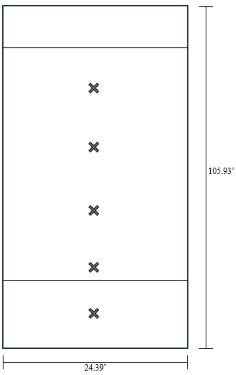
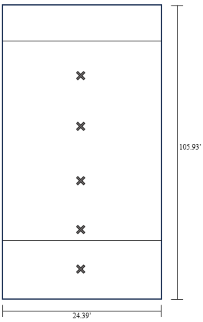
diagram and image adjustments, gain reduction adjustment for KY, IN, NM churches

diff --git a/Javascript/AudioEngine.js b/Javascript/AudioEngine.js
@@ -60,16 +60,31 @@ function setConvolutionMix(mix) {
 }
 
 /**
+ * Pre-convolution gain reduction (in dB) applied to the IRs, per room and
+ * receiver position. Receivers left out of a room's entry, and rooms left out
+ * entirely, are played back unchanged.
+ */
+const IR_GAIN_REDUCTION_DB = {
+    FirstPresbyterianChurchKY:     { R2: 1.5, R5: 1.5, R8: 1.5, R3: 3, R6: 3, R9: 3 },
+    CaneRidgeMeetingHouse:         { R7: 1.5, R8: 1.5, R9: 1.5, R5: 3, R6: 3},
+    BasilicaStFrancis:             { R4: 1, R5: 1, R2: 1.5, R6: 2.5, R7: 2.5, R3: 3, R8: 4.5 },
+    MonasteryImmaculateConception: { R2: 1.5, R5: 1.5, R6: 1.5, R3: 3, R4: 4.5 },
+    StAugustineIsleta:             { R2: 1.5, R3: 3, R4: 4.5, R5: 6 },
+    OurLadyOfGuadalupe:            { R2: 1.5, R3: 3, R4: 4.5 }
+};
+
+/**
  * Determines the pre-convolution gain reduction (in dB) to apply to the IRs
  * for the current room/receiver position combination.
- * First Presbyterian Church, KY: R2/R5/R8 get -1.5dB, R3/R6/R9 get -3dB, R1/R4/R7 are unchanged.
  */
 function getIrGainReductionDb() {
-    if (room !== "FirstPresbyterianChurchKY") return 0;
+    const roomReductions = IR_GAIN_REDUCTION_DB[room];
+    if (!roomReductions) return 0;
 
-    if (/^rpR(2|5|8)_/.test(rcvpos)) return 1.5;
-    if (/^rpR(3|6|9)_/.test(rcvpos)) return 3;
-    return 0;
+    const receiver = /^rp(R\d+)_/.exec(rcvpos);
+    if (!receiver) return 0;
+
+    return roomReductions[receiver[1]] || 0;
 }
 
 /**

diff --git a/Style/Layout.css b/Style/Layout.css
@@ -74,7 +74,7 @@ input, button, select, textarea {
     border: none;
     padding: 12px 24px;
     font-size: 14px;
-    font-weight: 500;
+    font-weight: 700;
     color: #666;
     cursor: pointer;
     border-bottom: 3px solid transparent;
@@ -94,14 +94,14 @@ input, button, select, textarea {
 /* ── Footer ── */
 #site-footer {
     flex-shrink: 0;
-    padding: 6px 5% 10px;
+    padding: 0 5% 10px;
     text-align: center;
     background-color: #f5f5f5;
 }
 
 #site-footer p {
     margin: 2px 0;
-    font-size: 11px;
+    font-size: 13px;
     line-height: 1.5;
     color: #777;
 }
@@ -110,7 +110,7 @@ input, button, select, textarea {
 #content-area {
     flex: 1;
     min-height: 0;
-    margin: 10px 5% 16px;
+    margin: 10px 5% 6px;
     border-radius: 4px;
     overflow: hidden;
     box-shadow: var(--card-shadow);
@@ -684,8 +684,8 @@ input, button, select, textarea {
 }
 
 #StAugustineIsletaui {
-    width: 236px;
-    height: 375px;
+    width: 203px;
+    height: 322px;
     background-image: url("../Images/St Augustine Isleta, NM/St Augustine Diagram.png");
-    background-size: 236px 375px;
+    background-size: 203px 322px;
 }

diff --git a/Javascript/CompileBasilicaStFrancis.js b/Javascript/CompileBasilicaStFrancis.js
@@ -26,21 +26,21 @@ function compileSelectionBasilicaStFrancis()
         {
             setImage("Images/Basilica St. Francis, IN/St Francis_IN_R1.JPG");
             setTimeout(() => {
-                viewer.lookAt(0, 0, 120, { duration: 1000 });
+                viewer.lookAt(0, 1, 120, { duration: 1000 });
             }, 100);
         }
         else if(rcvpos === 'rpR2_BasilicaStFrancis')
         {
             setImage("Images/Basilica St. Francis, IN/St Francis_IN_R2.JPG");
             setTimeout(() => {
-                viewer.lookAt(0, 0, 120, { duration: 1000 });
+                viewer.lookAt(-2, 4, 120, { duration: 1000 });
             }, 100);
         }
         else if(rcvpos === 'rpR3_BasilicaStFrancis')
         {
             setImage("Images/Basilica St. Francis, IN/St Francis_IN_R3.JPG");
             setTimeout(() => {
-                viewer.lookAt(0, 0, 120, { duration: 1000 });
+                viewer.lookAt(-2, 3, 120, { duration: 1000 });
             }, 100);
         }
         else if(rcvpos === 'rpR4_BasilicaStFrancis')

diff --git a/Style/StAugustineIsletaButtons.css b/Style/StAugustineIsletaButtons.css
@@ -9,38 +9,38 @@
 #spS_StAugustineIsleta
 {
     position: absolute;
-    top: 31px;
-    left: 87px;
+    top: 25px;
+    left: 74px;
 }
 
 /* Receiver positions */
 #rpR1_StAugustineIsleta
 {
     position: absolute;
-    top: 82px;
-    left: 87px;
+    top: 69px;
+    left: 74px;
 }
 #rpR2_StAugustineIsleta
 {
     position: absolute;
-    top: 141px;
-    left: 87px;
+    top: 119px;
+    left: 74px;
 }
 #rpR3_StAugustineIsleta
 {
     position: absolute;
-    top: 204px;
-    left: 87px;
+    top: 173px;
+    left: 74px;
 }
 #rpR4_StAugustineIsleta
 {
     position: absolute;
-    top: 261px;
-    left: 87px;
+    top: 223px;
+    left: 74px;
 }
 #rpR5_StAugustineIsleta
 {
     position: absolute;
-    top: 307px;
-    left: 87px;
+    top: 262px;
+    left: 74px;
 }

diff --git a/index.html b/index.html
@@ -26,7 +26,7 @@
     <script src="Javascript/AudioEngine.js" type="text/javascript"></script>
     <script src="Javascript/SettingsMenu.js" type="text/javascript"></script>
 
-    <link href="https://fonts.googleapis.com/css2?family=Roboto:wght@400;500;600&display=swap" rel="stylesheet">
+    <link href="https://fonts.googleapis.com/css2?family=Roboto:wght@400;500;600;700&display=swap" rel="stylesheet">
     <link href="https://unpkg.com/material-components-web@latest/dist/material-components-web.min.css" rel="stylesheet">
     <link rel="stylesheet" href="Style/BridgeCommunityChurchButtons.css">
     <link rel="stylesheet" href="Style/ChristChurchCathedralButtons.css">

diff --git a/Javascript/CompileCaneRidgeMeetingHouse.js b/Javascript/CompileCaneRidgeMeetingHouse.js
@@ -17,7 +17,7 @@ function compileSelectionCaneRidgeMeetingHouse()
         {
             setImage("Images/Cane Ridge Meeting House, KY/Cane Ridge Meeting House, KY_R1.jpg");
             setTimeout(() => {
-                viewer.lookAt(0, 0, 120, { duration: 1000 });
+                viewer.lookAt(0, 4, 120, { duration: 1000 });
             }, 100);
         }
         else if(rcvpos === 'rpR2_CaneRidgeMeetingHouse')
